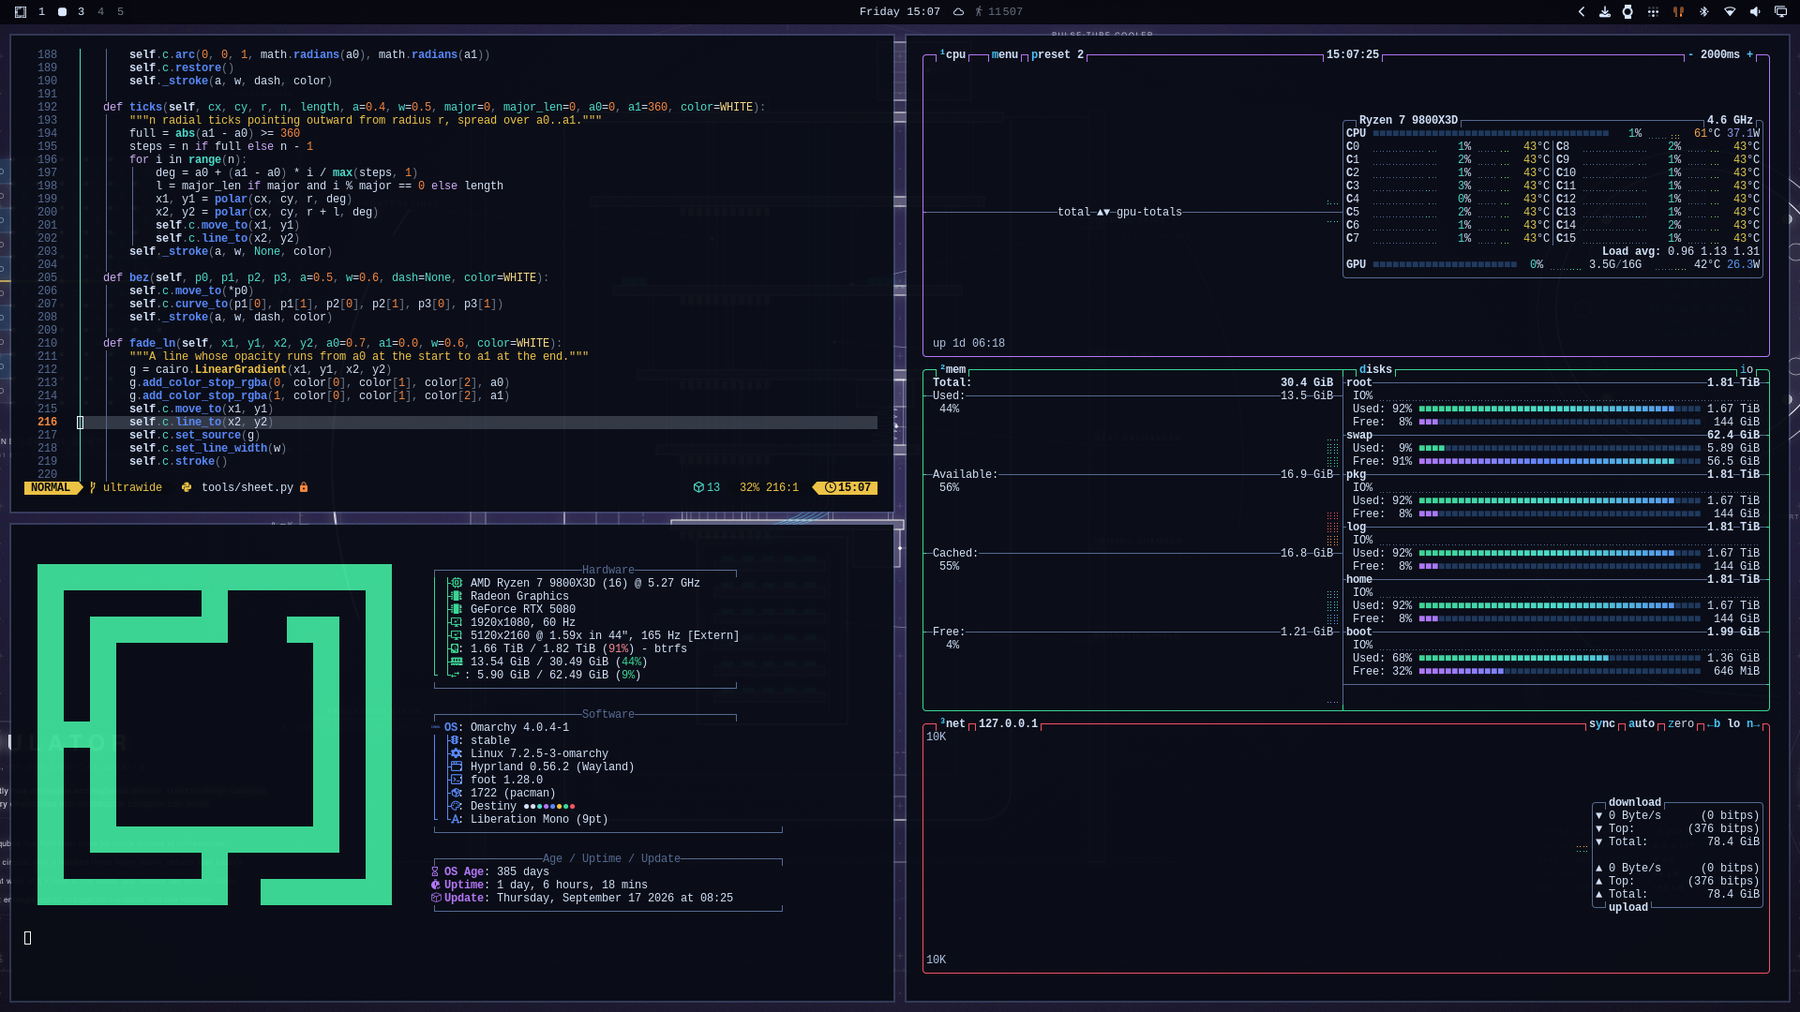
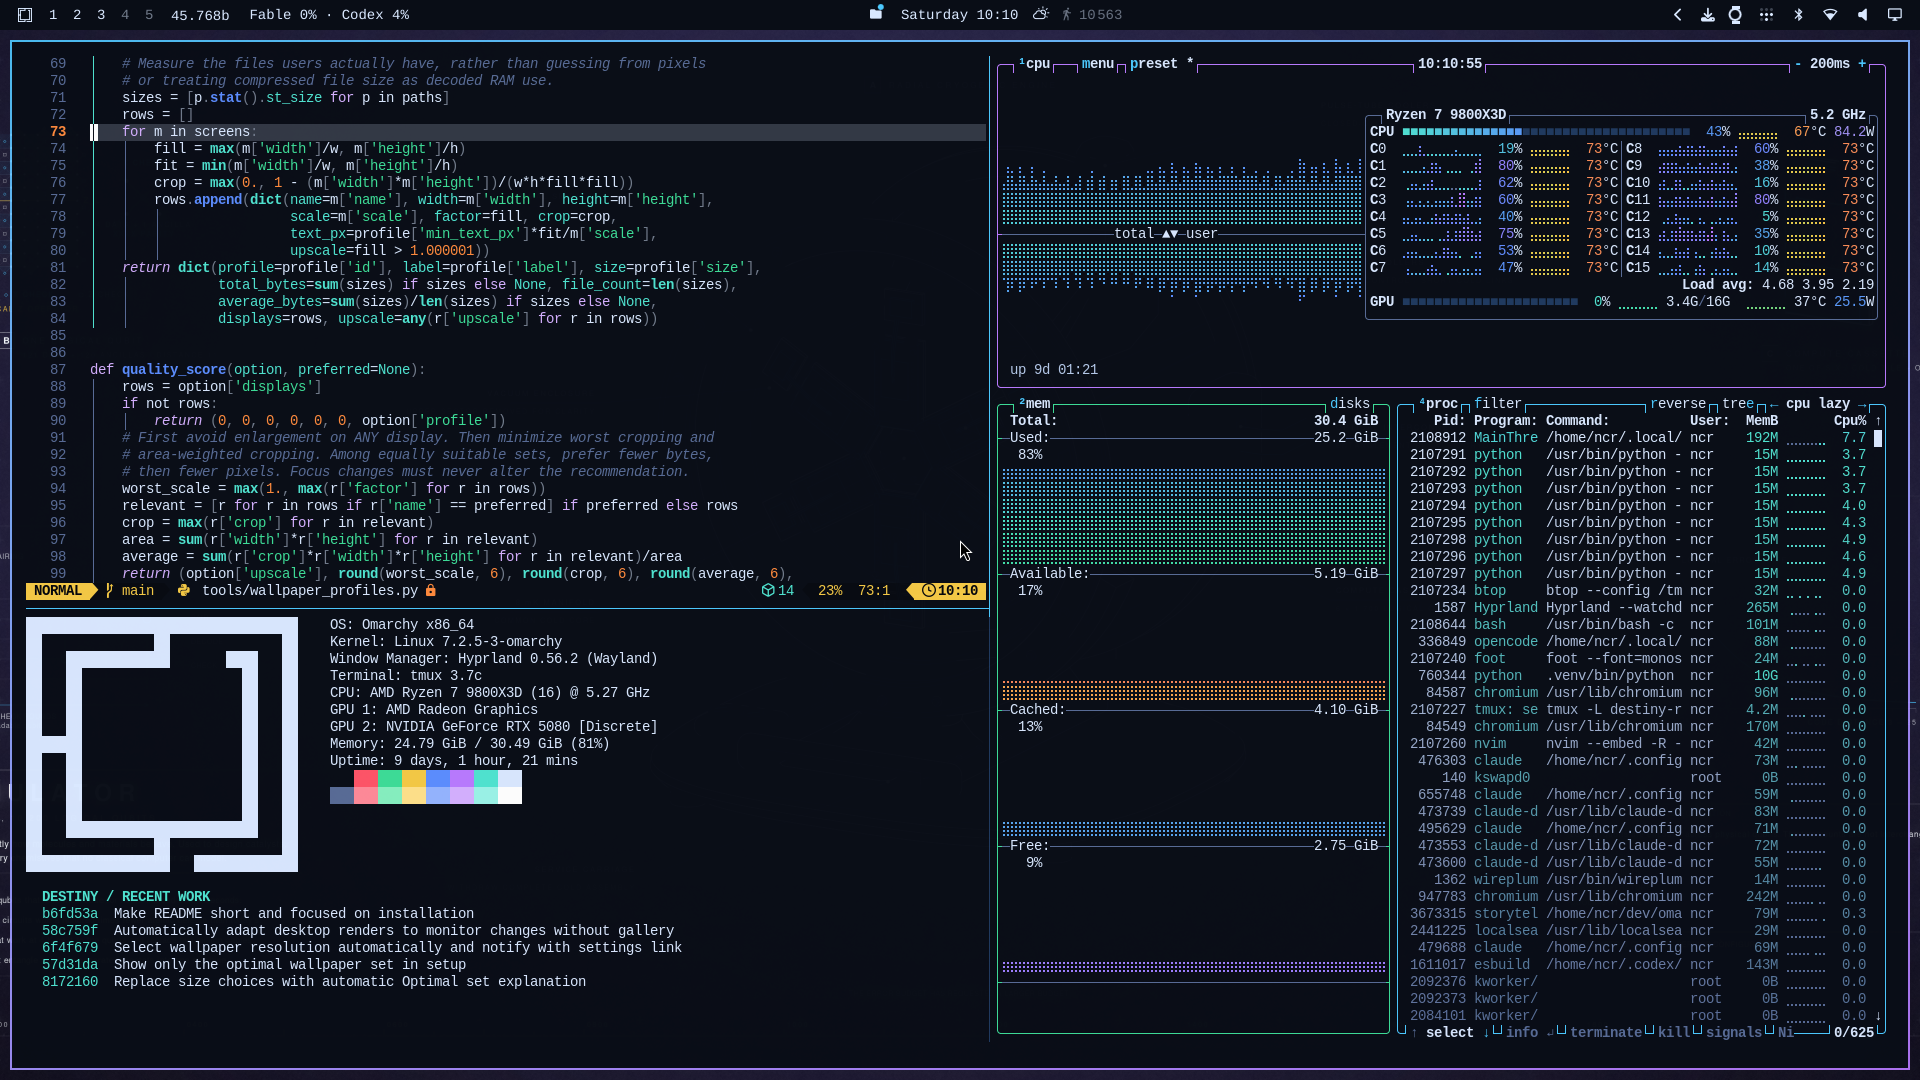
Show an active desktop and detailed wallpaper showcase in README

Changed region(s): [[0.0, 0.0, 1.0, 1.0]]

diff --git a/tools/make_readme_showcase.py b/tools/make_readme_showcase.py
@@ -1,0 +1,37 @@
+#!/usr/bin/env python3
+"""Compose the README's full-sheet/detail card from unchanged production pixels."""
+from pathlib import Path
+from PIL import Image, ImageDraw, ImageFont
+
+ROOT=Path(__file__).resolve().parents[1]
+OUT=ROOT/'previews/wallpaper-detail.webp'
+W,H=2400,1050
+BG='#090d16'
+TEXT='#d9e8ff'
+MUTED='#94a6bf'
+BORDER='#273044'
+source=Image.open(ROOT/'backgrounds/03-fusion-transport.webp').convert('RGB')
+canvas=Image.new('RGB',(W,H),BG)
+draw=ImageDraw.Draw(canvas)
+font=ImageFont.truetype('/usr/share/fonts/gsfonts/NimbusSans-Regular.otf',25)
+bold=ImageFont.truetype('/usr/share/fonts/gsfonts/NimbusSans-Bold.otf',36)
+
+def label(text,xy):
+    x,y=xy
+    for char in text:
+        draw.text((x,y),char,font=font,fill=MUTED)
+        x+=draw.textlength(char,font=font)+3
+
+# One full 16:9 sheet and an actual native-resolution crop, aligned on a grid.
+full_box=(40,102,1560,957)
+detail_box=(1600,102,2360,957)
+canvas.paste(source.resize((1520,855),Image.Resampling.LANCZOS),full_box[:2])
+crop=source.crop((2210,640,3110,1652))
+canvas.paste(crop.resize((760,855),Image.Resampling.LANCZOS),detail_box[:2])
+for box in (full_box,detail_box):draw.rectangle(box,outline=BORDER,width=2)
+label('FULL WALLPAPER', (40,48))
+label('PROPULSION DETAIL', (1600,48))
+draw.text((40,984),'FUSION TRANSPORT',font=bold,fill=TEXT)
+draw.text((1600,990),'Original linework · enlarged from the 5K render',font=font,fill=MUTED)
+canvas.save(OUT,quality=94,method=6)
+print(OUT)

diff --git a/README.md b/README.md
@@ -2,7 +2,7 @@
 
 A dark theme for [Omarchy](https://omarchy.org) 4, with **42 retrofuturistic blueprint wallpapers**.
 
-![Destiny desktop](preview.png)
+![Destiny desktop with Neovim, system information and live btop graphs](preview.png)
 
 ## Install
 
@@ -16,6 +16,8 @@ The companion automatically selects the best wallpaper resolution for your deskt
 **Browse:** open **Destiny Wallpapers** from the app menu. **← / →** to browse, **Esc** to close.
 
 **Settings:** `destiny-wallpapers --configure`
+
+![Fusion Transport wallpaper and enlarged propulsion detail](previews/wallpaper-detail.webp)
 
 [All wallpapers](previews/wallpapers.webp) · [Companion details](companion/README.md) · [MIT license](LICENSE)
 
